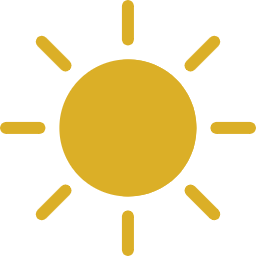
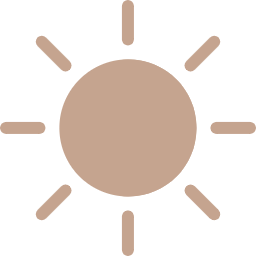
mejoras visuales y funcionales en componente NavDesk

diff --git a/frontend/assets/css/tailwind.css b/frontend/assets/css/tailwind.css
@@ -5,22 +5,22 @@
 @import url('https://fonts.googleapis.com/css2?family=ABeeZee:ital@0;1&family=Aboreto&family=Bellefair&family=Cinzel:wght@400..900&family=Coiny&family=Corinthia:wght@400;700&family=Lexend+Exa:wght@100..900&display=swap');
 
 
-.icon-redes{
+.icon-redes {
  @apply text-[#5b493b] hover:text-[#eb9d36] transition-colors duration-300 mx-2 text-xl
 }
 
-/* En tu archivo CSS global o dentro de @layer base */
+/*scroll vertical*/
 ::-webkit-scrollbar {
   width: 8px; /* grosor de la barra */
 }
 
 ::-webkit-scrollbar-track {
-  background: #f5e9dc; /* fondo del track */
+  background: var(--scroll-track);
 }
 
 ::-webkit-scrollbar-thumb {
-  background-color: #5b493b; /* color del scroll */
-  border-radius: 4px; /* bordes redondeados */
+  background-color: var(--scroll-thumb);
+  border-radius: 4px;
 }
 
 html {
@@ -41,36 +41,41 @@ html {
   --bg-1: #faf6f3;
   --bg-2: #beb093;
   --bg-3: #aa4b22;
+  --bg-4: #cebfa0;
   --text-1: #5b493b;
-  --text-2: #c05209;
+  --text-2: #aa4b22;
   --text-3: #faf6f3;
-  --border: #5b493b;
+  --border-1: #5b493b;
+  --border-2: #dfc984;
   --hover-text: #e6b524;
-  --hover-border: #dbaf27;
+  --hover-border-1: #dbaf27;
+  --hovver-border-2: #b19950;
   --placeholder: #86420e;
   --bg-image: url('/img/fondo-light.png');
-  --logo-primary: #5b493b;
-  --logo-secondary: #e6b524;
+  --scroll-track:#f5e9dc;
+  --scroll-thumb: #d8c49d;
 }
 
 .dark {
   --bg-1: #2b1709;
-  --bg-2: #2f221b;
-  --bg-3: #8a3917;
+  --bg-2: #3b2b23;
+  --bg-3: #b83f0b;
+  --bg-4: #3b2b23;
   --text-1: #c5a48f;
-  --text-2: #87430b;
+  --text-2: #b83f0b;
   --text-3: #2b1709;
-  --border: #4c250c;
-  --hover-text: #ba5326;
-  --hover-border: #882e07;
-  --placeholder: #85634a;
+  --border-1: #6c5a4f;
+  --border-2: #564306;
+  --hover-text: #f4ae75;
+  --hover-border-1: #882e07;
+  --hovver-border-2: #68390c;
+  --placeholder: #926947;
   --bg-image: url('/img/fondo-dark.png');
-  --logo-primary: #b69479;
-  --logo-secondary: #ba5326;
+  --scroll-track:#32251d;
+  --scroll-thumb: #463a30;
 }
 
-.logo-primary{fill: var(--logo-primary);}
-.logo-secondary{fill: var(--logo-secondary);}
+
 
 .theme-icon{
   content:url('../../public/img/dark-icon.png')
@@ -79,3 +84,12 @@ html {
 .dark .theme-icon{
   content:url('../../public/img/light-icon.png')
 }
+
+.logo {
+  content: url('/img/logo-light.png');
+}
+
+.dark .logo {
+  content: url('/img/logo-dark.png');
+}
+

diff --git a/frontend/components/NavDesk.vue b/frontend/components/NavDesk.vue
@@ -1,42 +1,34 @@
 <script setup>
   import { ref, computed } from 'vue'
   import { useRoute, useRouter } from 'vue-router'
-  import Libros from '~/components/Libros.vue'
-  import Resultados from '~/components/Resultados.vue'
-  import { libros } from '~/data/libros.js'
+  import Libros from '~/components/Libros'
+  import Resultados from '~/components/Resultados'
   import { useTheme } from '~/composables/useTheme'
+  import { mapaLibros } from '~/data/mapaLibros'
 
   const route = useRoute()
   const router = useRouter()
 
   const busqueda = ref('')
 
-  const normalizar = (t) =>
-    t.toLowerCase().normalize("NFD").replace(/[\u0300-\u036f]/g, "")
+  const normalizar = (t) => t.toLowerCase().normalize("NFD").replace(/[\u0300-\u036f]/g, "")
+  
+  const libros = Object.keys(mapaLibros)
 
   const librosFiltrados = computed(() => {
     if (!busqueda.value) return libros
-    return libros.filter(l =>
-      normalizar(l).includes(normalizar(busqueda.value))
+
+    return libros.filter( libro =>
+      normalizar(mapaLibros[libro] || libro)
+        .includes(normalizar(busqueda.value))
     )
   })
 
-  const esRutaLeer = computed(() => route.path === '/leer')
+  const esRutaLeer = computed(() => route.path === '/panel/libros')
 
   const irLibro = (libro) => {
-
-    const convertirRomanos = (texto) => {
-      return texto
-        .replace(/^i\s/i, '1 ')
-        .replace(/^ii\s/i, '2 ')
-        .replace(/^iii\s/i, '3 ')
-    }
-
-    const slug = normalizar(convertirRomanos(libro))
-      .replace(/\s+/g, "-")
-      .replace(/[^a-z0-9]/g, "")
-    router.push(`/leer/${slug}`)
-
+    busqueda.value = ''
+    router.push(`/panel/libros/${libro}/1`)
   }
 
 
@@ -45,7 +37,7 @@
 </script>
 
 <template>
-  <section class="flex h-[80px] py-[20px] px-[30px] text-text1 border-b border-border">
+  <section class="flex h-[80px] py-[20px] px-[30px] text-text1">
     <div>
       <button
         @click="router.push('/panel')"
@@ -54,16 +46,18 @@
       Inicio
       </button>
     </div>
+
     <div class="relative flex gap-2 mx-auto items-center">
       <input
         type="text"
         v-model="busqueda"
-        class="w-[300px] h-[30px] text-center bg-transparent border-2 rounded-lg border-border focus:outline-none placeholder-placeholder"
+        class="w-[300px] h-[30px] text-center bg-transparent border-2 rounded-lg border-border1 focus:outline-none placeholder-placeholder"
         placeholder="Buscar libro"
       >
       <Resultados
-        v-if="!esRutaLeer && busqueda.length > 0"
+        v-if="!esRutaLeer && busqueda.trim().length > 0"
         :resultados="librosFiltrados"
+        :busqueda="busqueda"
         @select="irLibro"
       />
 
@@ -71,7 +65,7 @@
 
     <button @click="toggleTheme"
     >
-      <img class="theme-icon w-6 " alt="tema" />
+      <img class="theme-icon w-8 " alt="tema" />
     </button>
 
     <button class="ml-4 text-text hover:text-hoverText transition duration-300">Menu</button>

diff --git a/frontend/components/Resultados.vue b/frontend/components/Resultados.vue
@@ -1,6 +1,9 @@
 <script setup>
+import { mapaLibros } from '~/data/mapaLibros';
+
 defineProps({
-  resultados: Array
+    resultados: Array,
+    busqueda: String
 })
 
 defineEmits(['select'])// realiza la emisión del evento 'select' al hacer clic en un resultado
@@ -8,15 +11,24 @@ defineEmits(['select'])// realiza la emisión del evento 'select' al hacer clic 
 
 <template>
     <div class="absolute top-[45px] left-0 w-[200px] max-h-[300px] overflow-y-auto z-50
-             rounded-lg bg-[#fff]/90 blackdrop-blur-md border-2 border-[#5b493b] p-2">
-        <button
-            v-for="r in resultados"
-            :key="r"
-            @click="$emit('select', r)"
-            class=" w-full text-left px-4 py-2 rounded-xl text-[#5b493b] hover:bg-[#dcc16b]/20 transition"
+             rounded-lg bg-bg1 blackdrop-blur-md border-2 border-border1 p-2">
+        <div v-if="resultados.length > 0">
+            <button
+                v-for="libro in resultados"
+                :key="libro"
+                @click="$emit('select', libro)"
+                class=" w-full text-left px-4 py-2 rounded-xl text-text1 hover:bg-bg3 transition"
+            >
+            {{ mapaLibros[libro]}}
+            </button>
+        </div>
+        <div 
+            v-else
+            class="text-center text-placeholder py-1"
         >
-         {{ r }}
-        </button>
+        No se encontraron resultados
+        </div>
+        
     </div>
 </template>
 

diff --git a/frontend/components/Lector.vue b/frontend/components/Lector.vue
@@ -14,7 +14,7 @@ const capitulo = computed(() => Number(route.params.capitulo))
 const totalCapitulos = computed(() => capitulosPorLibro[libro.value])
 const previousChapter = computed(() => { return capitulo.value > 1 ? capitulo.value - 1 : null }) // si el capitulo es mayor a uno entonces el valor del capitulo es - 1 sino es nulo
 const nextChapter = computed(() => { return capitulo.value < totalCapitulos.value ? capitulo.value + 1 : null })
-
+const cargando = ref(true)
 
 
 const data = ref({
@@ -22,6 +22,7 @@ const data = ref({
 }) // aquí se guardará la información del capítulo cargado
 
 const cargarCapitulo = async () => {
+  cargando.value = true
 
   try {
     const res = await fetch(`https://api.midvash.com/v1/rvr1960/${libro.value}/${capitulo.value}`)
@@ -31,6 +32,7 @@ const cargarCapitulo = async () => {
   } catch (e){
     console.error("Error al cargar el capitulo: ",)
   }
+  cargando.value = false
 }
 
 onMounted(cargarCapitulo)
@@ -71,7 +73,7 @@ const irACapitulo = async (num) => {
 
             <h2
               v-if="data?.chapter"
-              class="font-lexendExa text-2xl font-semibold text-text1"
+              class="font-lexendExa text-2xl font-semibold text-text1 mt-4"
             >
               Capítulo {{ data.chapter }}
             </h2>
@@ -93,10 +95,25 @@ const irACapitulo = async (num) => {
           </div>
 
         </div>
+
+        <!-- loader -->
+        <div v-if="cargando" class="px-10 animate-pulse">
+          <div class="h-6 w-1/6 bg-bg3 rounded mb-12"></div>
+          <div class="h-6 w-4/6 bg-bg4 rounded mb-4"></div>
+          <div class="h-6 w-3/6 bg-bg4 rounded mb-4"></div>
+          <div class="h-6 w-5/6 bg-bg4 rounded mb-4"></div>
+          <div class="h-6 w-3/6 bg-bg4 rounded mb-4"></div>
+          <div class="h-6 w-4/6 bg-bg4 rounded mb-4"></div>
+          <div class="h-6 w-3/6 bg-bg4 rounded mb-4"></div>
+          <div class="h-6 w-5/6 bg-bg4 rounded mb-4"></div>
+          <div class="h-6 w-3/6 bg-bg4 rounded mb-4"></div>
+        </div>
         
         <!-- contenedor de versiculos -->
-        <div class="flex flex-col gap-2 leading-relaxed text-lg max-w-4xl px-10 pt-3 pb-12">
-
+        <div
+          v-if="!cargando" 
+          class="flex flex-col gap-2 leading-relaxed text-lg max-w-4xl px-10 pt-3 pb-12"
+        >
           <div
             v-for="(vers, index) in data?.verses || []"
             :key="index"
@@ -110,7 +127,6 @@ const irACapitulo = async (num) => {
               {{ vers }}
             </p>
           </div>
-
         </div>
 
 

diff --git a/frontend/components/Libros.vue b/frontend/components/Libros.vue
@@ -21,9 +21,9 @@ const imagenesPorLibro = {
       :key="slug"
       @click="$emit('select', slug)"
       class="relative group overflow-hidden w-[230px] h-[150px] rounded-[28px]
-             border border-[#dcc16b]/40 bg-transparent transition-all duration-500
+             border border-border2 bg-transparent transition-all duration-500
              hover:w-[230px] hover:-translate-y-1 hover:shadow-[0_0_25px_rgba(220,193,107,0.3)]
-             hover:border-[#dcc16b]"
+             hover:border-hoverBorder2"
     >
       <img
         v-if="imagenesPorLibro[slug]"
@@ -39,8 +39,8 @@ const imagenesPorLibro = {
                   bg-[#ffdc68]/20"></div>
 
       <div class="relative z-10 h-full flex items-end justify-start p-5">
-        <p class="font-lexendExa text-xl text-[#5b493b] transition-all duration-500
-                  group-hover:text-[#f8ead0] group-hover:drop-shadow-[0_0_8px_rgba(255,220,120,0.6)]">
+        <p class="font-lexendExa text-xl text-text1 transition-all duration-500
+                  group-hover:text-text3 group-hover:drop-shadow-[0_0_8px_rgba(255,220,120,0.6)]">
           {{ mapaLibros[slug] }}
         </p>
       </div>

diff --git a/frontend/tailwind.config.js b/frontend/tailwind.config.js
@@ -28,13 +28,16 @@ export default {
         bg1: "var(--bg-1)",
         bg2: "var(--bg-2)",
         bg3: "var(--bg-3)",
+        bg4: "var(--bg-4)",
         text1: "var(--text-1)",
         text2: "var(--text-2)",
         text3: "var(--text-3)",
-        border: "var(--border)",
+        border1: "var(--border-1)",
+        border2: "var(--border-2)",
         hoverText: "var(--hover-text)",
         placeholder: "var(--placeholder)",
-        hoverBorder: "var(--hover-border)",
+        hoverBorder1: "var(--hover-border-1)",
+        hoverBoder2: "var(--hover-border-2)"
       }
     }
   },

diff --git a/frontend/components/Name.vue b/frontend/components/Name.vue
@@ -1,10 +1,6 @@
 <script setup>
 
 import { RouterLink } from 'vue-router';
-import logoLight from '~/public/img/logo-light.png'
-import logoDark from '~/public/img/logo-dark.png'
-
-const isDark = useColorMode().value === 'dark'
 
 </script>
 
@@ -12,7 +8,7 @@ const isDark = useColorMode().value === 'dark'
     <section class="flex justify-center items-center ">
         <RouterLink to="/">
             <button>
-                <img :src="isDark ? logoDark : logoLight" alt="logo" class="h-[70px]">
+                <span src="/img/logo-dark.png" class="logo h-[70px] block"></span>
             </button>
         </RouterLink>
         

diff --git a/frontend/components/Chapter.vue b/frontend/components/Chapter.vue
@@ -45,7 +45,7 @@ const irCapitulo = (num) => {
 
     <div v-else class="flex flex-col justify-center items-center mx-auto p-1">
       <h2 class="font-lexendExa text-center text-text1">
-        Al seleccionar un libro podrás ver un listado de los capítulos
+        Selecciona un libro para ver sus capítulos
       </h2>
       <img src="/img/heart.png" alt="corazon color beige" class="mt-2">
     </div>

diff --git a/frontend/components/Reproductor.vue b/frontend/components/Reproductor.vue
@@ -85,7 +85,7 @@ const stopResize = () => {
         @input="generarEmbed"
         type="text"
         placeholder="Url de Spotify"
-        class="border-2 p-1 rounded-lg border-border bg-transparent focus:outline-none text-center text-text1 placeholder-placeholder"
+        class="border-2 p-1 rounded-lg border-border1 bg-transparent focus:outline-none text-center text-text1 placeholder-placeholder"
       >
 
       

diff --git a/frontend/pages/panel/index.vue b/frontend/pages/panel/index.vue
@@ -1,5 +1,4 @@
 <script setup>
-import { libros } from '~/data/libros'
 import { useRouter } from 'vue-router'; // useRouter es para navegar programáticamente entre rutas
 import Libros from '~/components/Libros.vue'
 